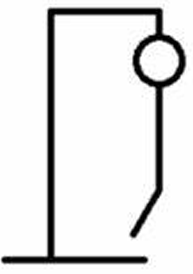
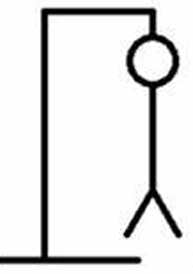
I HATE THIS WEBSITE

Changed region(s): [[0.0, 0.0, 0.7772, 0.9927], [0.6218, 0.0, 0.9948, 0.8759]]

diff --git a/script.js b/script.js
@@ -104,54 +104,68 @@ function guessLetter(){
 
 }
 
-function wrongGuess(guessedLetter){
-    //sound
-    sound("sound/wrong.wav")
+function wrongGuess(guessedLetter) {
+    // Play sound for wrong guess
+    sound("sound/wrong.wav");
 
-    //increment # of wrong guessed
-    wrongGuesses++
+    // Increment the number of wrong guesses
+    wrongGuesses++;
 
-    //add the guessed letter to the guessed letters display
-    document.getElementById('wrongLetters').textContent += ` ${guessedLetter}`
+    // Add the guessed letter to the wrong letters display
+    document.getElementById('wrongLetters').textContent += ` ${guessedLetter}`;
 
-    //document.getElementById('shamrock').src = `imgs/shamrock${6 - wrongGuesses}.jpg`
+    // Update the hangman image based on the number of wrong guesses
+    document.getElementById('hangmanFigure').src = `imgs/HM${wrongGuesses}.png`;
 
-    //check to see if the # of wrong guesses is equal to the maxMistakes if i is then call endgame(false)
-    if(wrongGuesses === maxMistakes){
-        endGame(false)}
-
-}
-
-function correctGuess(guessedLetter){
-    //sound
-    sound("sound/right.wav")
-
-
-   let newDisplayWord = '' 
-
-   for (let i = 0; i < selectedWord.length; i++){
-    if (selectedWord[i] === guessedLetter){
-        newDisplayWord += guessedLetter
-    } else {
-        newDisplayWord += displayedWord[i]
-    }
-  }
-
-    displayedWord = newDisplayWord 
-    document.getElementById('wordDisplay').textContent = displayedWord
-    .split('')
-    .join(' ')
-
-    if(!displayedWord.includes('_')){
-        endGame(true)
+    // Check if the number of wrong guesses has reached the maximum number of allowed mistakes (game over)
+    if (wrongGuesses === maxMistakes) {
+        endGame(false);  // If max mistakes are reached, end the game with a loss
     }
 }
+
+
+
+
+function correctGuess(guessedLetter) {
+    // Play sound for correct guess
+    sound("sound/right.wav");
+
+    let newDisplayWord = '';
+
+    // Update displayed word
+    for (let i = 0; i < selectedWord.length; i++) {
+        if (selectedWord[i] === guessedLetter) {
+            newDisplayWord += guessedLetter;
+        } else {
+            newDisplayWord += displayedWord[i];
+        }
+    }
+
+    displayedWord = newDisplayWord;
+    document.getElementById('wordDisplay').textContent = displayedWord.split('').join(' ');
+
+    // Check if the word is fully guessed
+    if (!displayedWord.includes('_')) {
+        endGame(true);  // If the word is completed, end the game with a win
+    }
+}
+
+
 
 function endGame(won) {
+    // After game is over, update the Graveyard
     if (won === true) {
-        // Change the content of the game area to show a win message
+        // Update the Graveyard with the correctly guessed word
+        updateGraveyard(true, selectedWord);
+    } else {
+        // Update the Graveyard with the wrong word
+        updateGraveyard(false, selectedWord);
+    }
+
+    // Display a win or loss message
+    if (won === true) {
         setTimeout(() => {
-            sound("sound/complete.wav")
+            sound("sound/complete.wav");
             document.getElementById('gameArea').innerHTML = `
                 <div style="text-align: center; font-size: 24px; font-weight: bold;">
                     Congrats! You beat Inpossa-man!<br>
@@ -162,12 +176,12 @@ function endGame(won) {
             `;
         }, 100);
     } else {
-        // Change the content of the game area to show a loss message
         setTimeout(() => {
-            sound("sound/incomplete.wav")
+            sound("sound/incomplete.wav");
             document.getElementById('gameArea').innerHTML = `
                 <div style="text-align: center; font-size: 24px; font-weight: bold;">
                     You lost to Inpossa-man!<br>
+                    <img src="imgs/HM6.png" class="img"> <br>
                     <button onclick="restartGame()" class="btn difficulty-btn Ez">
                         Try Again?
                     </button>
@@ -177,10 +191,6 @@ function endGame(won) {
     }
 }
 
-
-function restartGame(){
-    location.reload()
-}
 
 
 // enter btn
@@ -196,4 +206,46 @@ document.getElementById('letterInput').addEventListener('keydown', function(even
   function sound(url){
     let audio = new Audio(url)
     audio.play()
+}
+
+function updateGraveyard(isCorrect, word) {
+    let correctWords = document.getElementById('correctWords');
+    let wrongWords = document.getElementById('wrongWords');
+
+    // Update the correct or wrong word list
+    if (isCorrect) {
+        correctWords.textContent += word + ', ';
+    } else {
+        wrongWords.textContent += word + ', ';
+    }
+}
+
+
+
+function restartGame() {
+    document.getElementById('dificultySelection').classList.remove('d-none');
+    // document.getElementById('wordSection').classList.remove('d-none');
+    document.getElementById('difficultyBox').classList.add('d-none');
+    document.getElementById('gameArea').classList.add('d-none');
+    // document.getElementById('winsDisplay').classList.remove('d-none');
+    // document.getElementById('lossesDisplay').classList.remove('d-none');
+
+    lives = 6;
+    wrongGuesses = 0;
+    guessedLetters = [];
+    selectedWord = '';
+    displayedWord = '';
+    slots = [];
+    flawlessVictory = true;
+
+    // document.getElementById('lives').textContent = `Lives: ${lives}`;
+    //document.getElementById('wrongLetters').textContent = 'Wrong Guesses:';
+    // document.getElementById('victoryText').classList.add('d-none');
+    // document.getElementById('lossText').classList.add('d-none');
+    // document.getElementById('revealedWord').classList.add('d-none');
+    // document.getElementById('victoryReveal').classList.add('d-none');
+    document.getElementById('wordDisplay').textContent = '';
+    document.getElementById('letterInput').value = '';
+    document.getElementById('guessBtn').disabled = false;
+    // updateHealthDisplay();
 }

diff --git a/index.html b/index.html
@@ -40,10 +40,10 @@
         <br>
         <br>
         
-     <div class="container">
+     <div class="container mb-4">
 
-<div class="row justify-content-around ">
-          <button class="btn difficulty-btn Ez col-3 pt-4 pb-4 pl-4 pr-4" onclick="startGame('Hard')"> <span>Hard</span> 
+<div class="row justify-content-around">
+          <button class="btn difficulty-btn Ez col-3 pt-5 pb-5 pl-5 pr-5" onclick="startGame('Hard')"> <span>Hard</span> 
           <div class="start EzT">
             <div class="text">
               Random words that are 4 or less letters!
@@ -96,14 +96,26 @@
       <!--Wrong Guesses-->
       <p id="wrongLetters" class="fw-bold text-danger" >Wrong Guesses: </p>
 
-      <!--guy Health-->
-      <img id="guy" src="" alt="dead guy" class="guy-img">
+      <!-- Add an image to represent the hangman -->
+      <div id="hangmanImage" style="text-align: center;">
+        <img id="hangmanFigure" src="imgs/HM1.png" alt="Hangman Figure" style="width: 150px;">
+      </div>
+
 
       <!-- Restart Health-->
        <div class="mt-4">
         <btn id="restartBtn" class="btn btn-danger" onclick="restartGame()">Restart Game</btn>
        </div>
        </div>
+      
+       <!-- Graveyard Section -->
+       
+       <div id="graveyard gameArea" class="text-align-center  mt-4">
+          <h3>Graveyard</h3>
+            <p><strong>Correct Words:</strong> <span id="correctWords"></span></p>
+            <p><strong>Wrong Words:</strong> <span id="wrongWords"></span></p>
+        </div>
+
        </div>
 
     </main>

diff --git a/style.css b/style.css
@@ -175,8 +175,39 @@ body {
   }
 }
 
+#hangmanImage {
+  text-align: center;
+  margin-top: 20px;
+}
+
+#hangmanFigure {
+  width: 150px;
+  height: auto;
+}
 
 
+#graveyard {
+  background-color: #f0f0f0;
+  padding: 20px;
+  margin-top: 40px;
+  border-radius: 10px;
+  box-shadow: 0 4px 8px rgba(0, 0, 0, 0.1);
+}
+
+#graveyard h3 {
+  font-size: 24px;
+  color: #333;
+}
+
+#graveyard p {
+  font-size: 18px;
+  color: #555;
+}
+
+#graveyard span {
+  font-weight: bold;
+  color: #007bff;
+}
 
 
 
